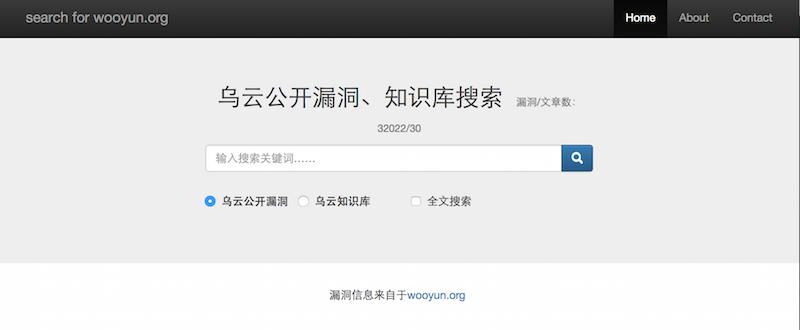
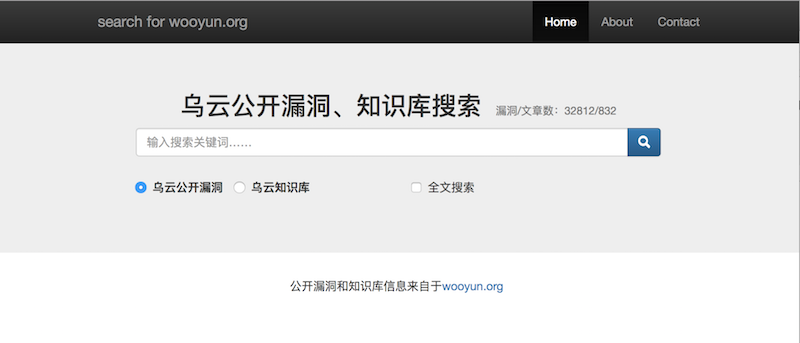
update readme.md

diff --git a/flask/templates/index.html b/flask/templates/index.html
@@ -3,7 +3,7 @@
 
 <div class="jumbotron masthead">
     <div class="row">
-        <div class="col-sm-6 col-md-6 col-lg-6 col-md-offset-3">
+        <div class="col-sm-8  col-xs-12 col-sm-offset-2">
             <h2 class="text-center">乌云公开漏洞、知识库搜索&nbsp;&nbsp;<small><small>漏洞/文章数：{{total_count_bugs}}/{{total_count_drops}}</small></small></h2>
             <form class="form-horizontal" action="/search" method="get" name="login">
                 <div class="input-group">
@@ -14,7 +14,7 @@
                 </div><!-- /input-group -->
                 <br/>
                 <div class="form-group">
-                  <div class="col-sm-6">
+                  <div class="col-sm-8  col-sm-6">
                     <div class="radio-inline">
                           <label>
                             <input type="radio" name="content_search_by" id="by_bugs" value="by_bugs" checked>乌云公开漏洞
@@ -27,13 +27,13 @@
                           </label>
                         </div>
                     </div>
-				  <div class="col-sm-3">
+				  <div class="col-sm-4 col-xs-6">
 						<div class="checkbox">
 					    	<label>
 					      		<input type="checkbox" name="search_by_html" value="true"> 全文搜索
 					    	</label>
 					  	</div>
-				  </div>	 
+				  </div>
 			    </div>
             </form>
         </div>

diff --git a/README.md b/README.md
@@ -14,6 +14,8 @@
 + pymongo (pip install pymongo) 
 
 ### 2.爬虫
++ **在爬取内容和查询时，请先启动mongodb数据库：mongod &**
+
 + 乌云公开漏洞和知识库的爬虫分别位于目录scrapy/wooyun和scrapy/wooyun_drops
 
 + 运行scrapy crawl wooyun -a page_max=1  -a local_store=false -a update=false，有三个参数用于控制爬取：
@@ -24,7 +26,7 @@
     
     -a update：控制是否重复爬取，默认为false
     
-+ 第一次爬取全部内容时，用scrapy crawl wooyun -a page_max=0
++ 第一次爬取全部内容时，用scrapy crawl wooyun -a page_max=0 -a update=true
   
 + 平时只爬取最近的更新时，用scrapy crawl wooyun -a page_max=1，可以根据自己的爬取频率和网站更新情况调整page_max的值
  
@@ -37,7 +39,17 @@
 
 + 搜索：在浏览器通过http://localhost:5000进行搜索漏洞，多个关键字可以用空格分开。
 
-### 4.其它
+### 4.为mongodb数据库创建索引（可选，以下为命令行操作）
+	mongo
+	use wooyun
+	db.wooyun_list.ensureIndex({"datetime":1})
+	db.wooyun_list.ensureIndex({"datetime":1,"title":1})
+	db.wooyun_list.ensureIndex({"datetime":1,"html":1})
+	db.wooyun_drops.ensureIndex({"datetime":1})
+	db.wooyun_drops.ensureIndex({"datetime":1,"title":1})
+	db.wooyun_drops.ensureIndex({"datetime":1,"html":1})
+
+### 5.其它
 
 + 本程序只用于技术研究和个人使用，程序组件均为开源程序，漏洞和知识库来源于乌云公开漏洞，版权归wooyun.org
 
